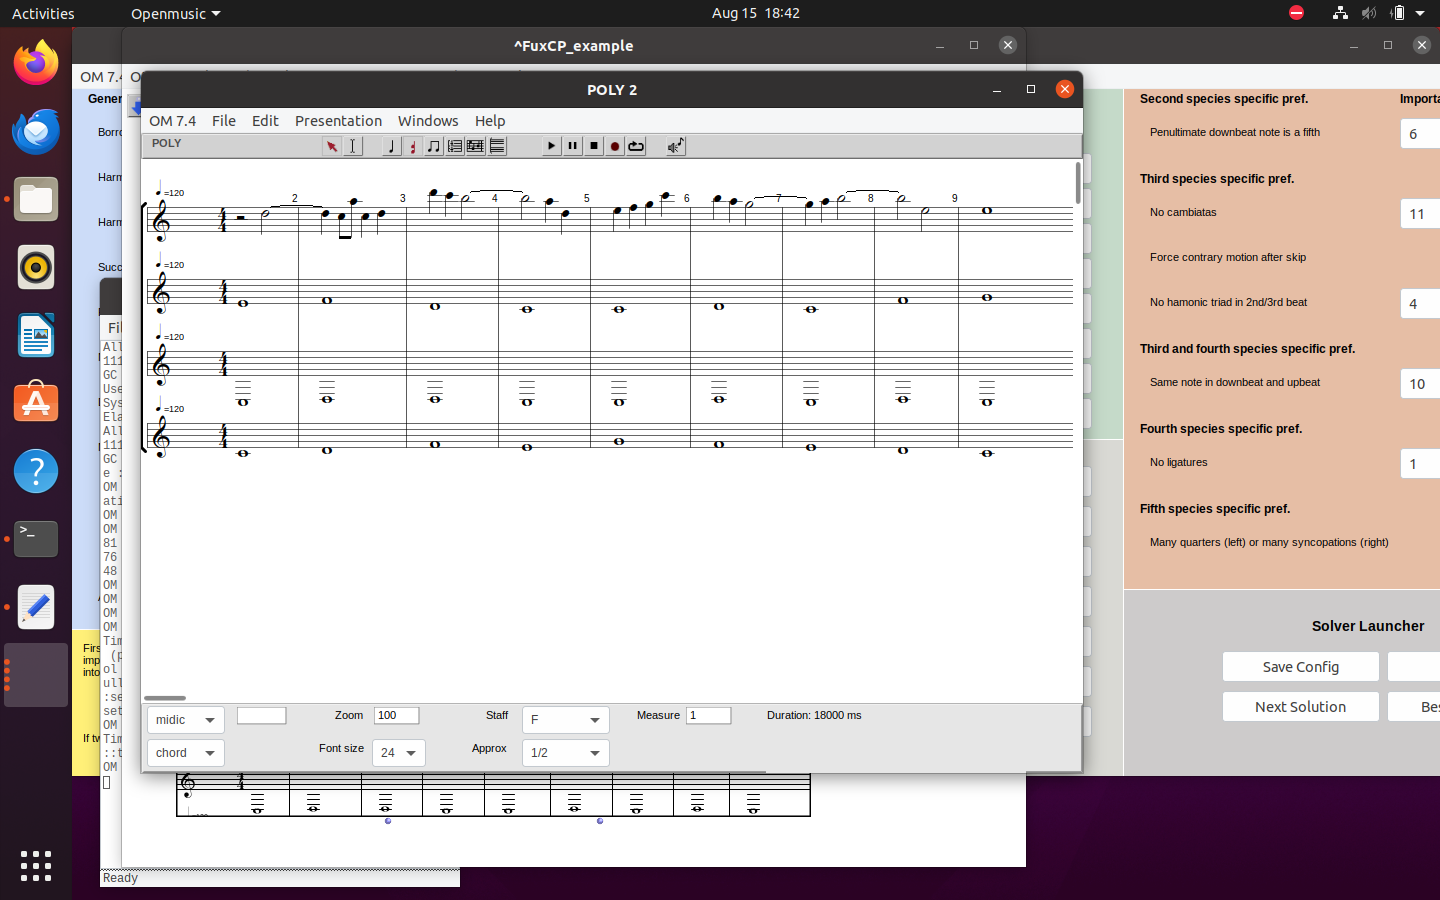
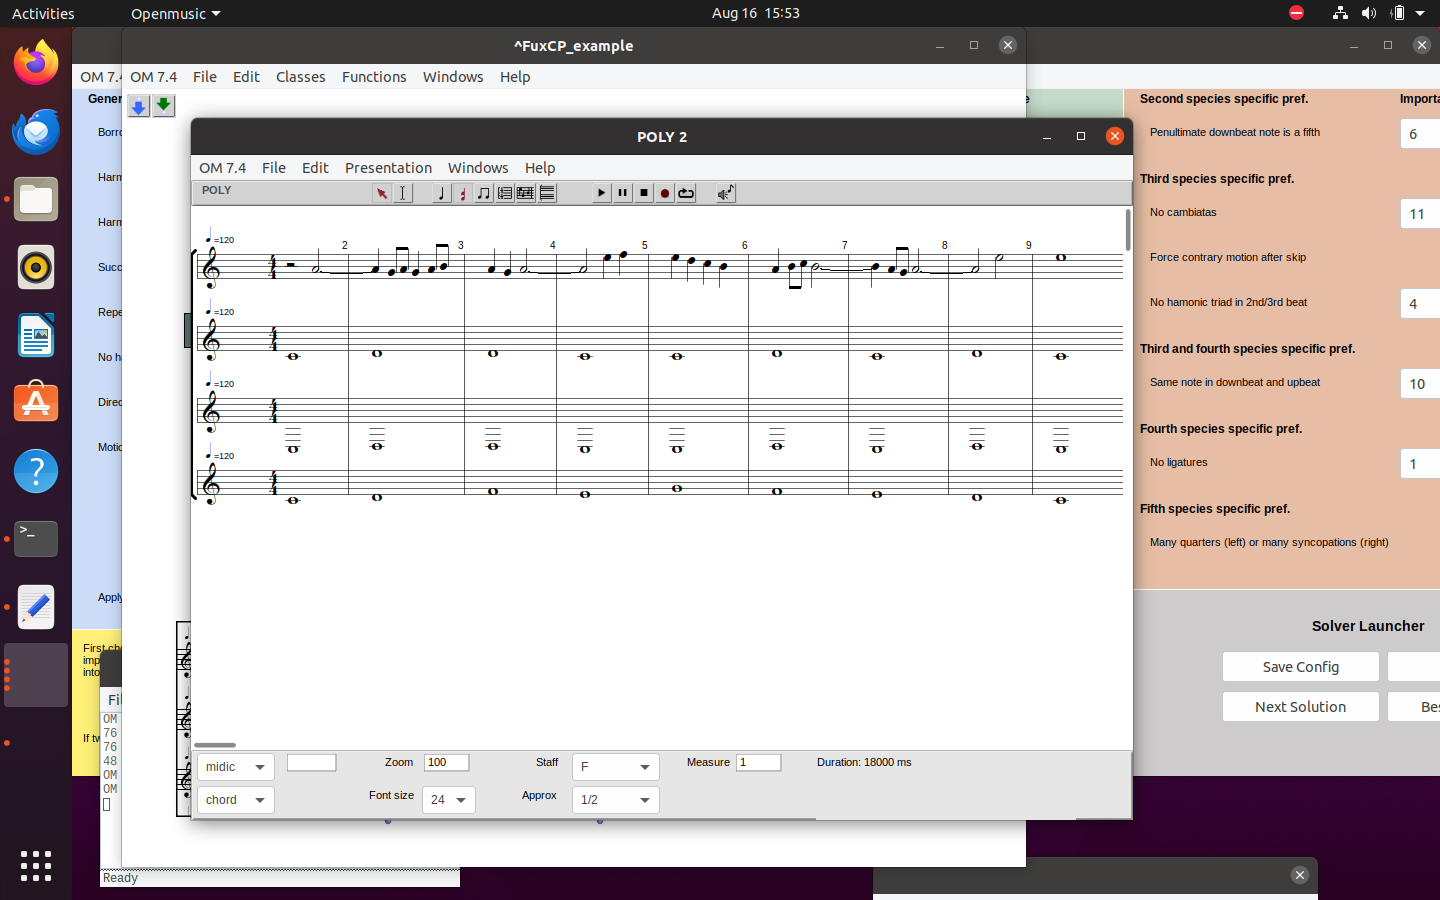
th1st1st_2

Changed region(s): [[0.0625, 0.0622, 0.9375, 1.0], [0.5312, 0.0, 0.5625, 0.0311]]

diff --git a/FuxCP/c++/src/Parts/FirstSpeciesCounterpoint.cpp b/FuxCP/c++/src/Parts/FirstSpeciesCounterpoint.cpp
@@ -21,7 +21,7 @@ FirstSpeciesCounterpoint::FirstSpeciesCounterpoint(Home home, int nMes, vector<i
     that he does like to borrow notes, so the borrow cost should just do the job and we should still allow borrowed notes, not outright forbid them
     */
     if(borrowMode==1){
-        extended_domain = vector_union(cp_range, vector_union(scale, borrowed_scale));
+        extended_domain = vector_intersection(cp_range, vector_union(scale, borrowed_scale));
     } else {
         extended_domain = vector_intersection(cp_range, vector_union(scale, borrowed_scale));
     }

diff --git a/FuxCP/c++/src/Parts/FifthSpeciesCounterpoint.cpp b/FuxCP/c++/src/Parts/FifthSpeciesCounterpoint.cpp
@@ -17,7 +17,7 @@ FifthSpeciesCounterpoint::FifthSpeciesCounterpoint(Home home, int nMes, vector<i
     that he does like to borrow notes, so the borrow cost should just do the job and still allow borrowed notes, not outright forbid them
     */
     if(borrowMode==1){
-        extended_domain = vector_union(cp_range, vector_union(scale, borrowed_scale));
+        extended_domain = vector_intersection(cp_range, vector_union(scale, borrowed_scale));
     } else {
         extended_domain = vector_intersection(cp_range, vector_union(scale, borrowed_scale));
     }
